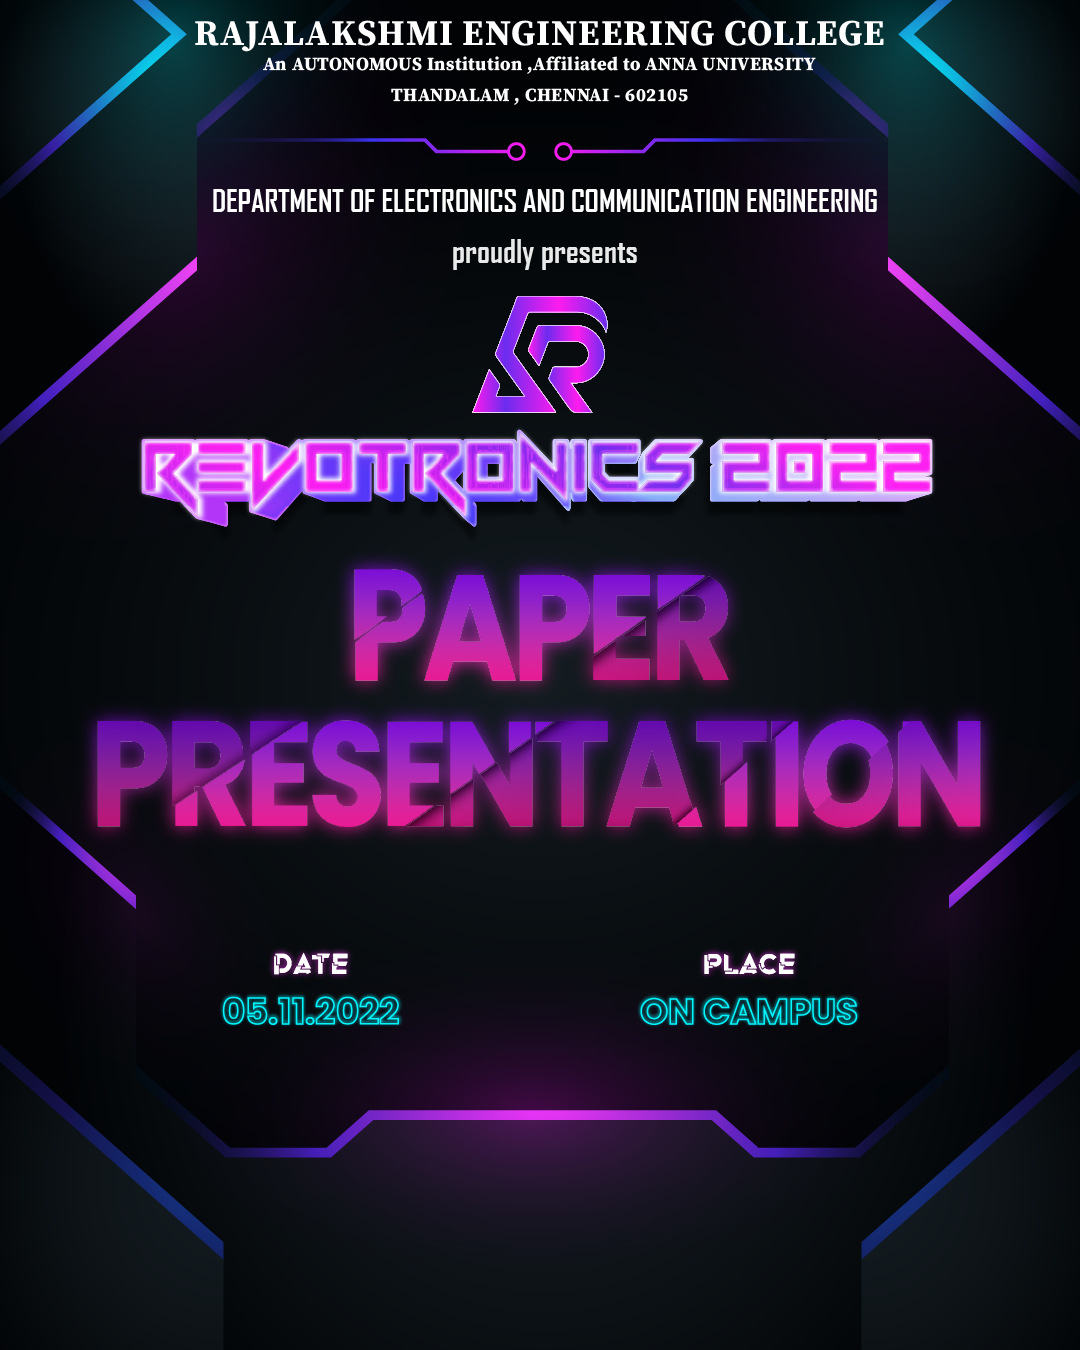
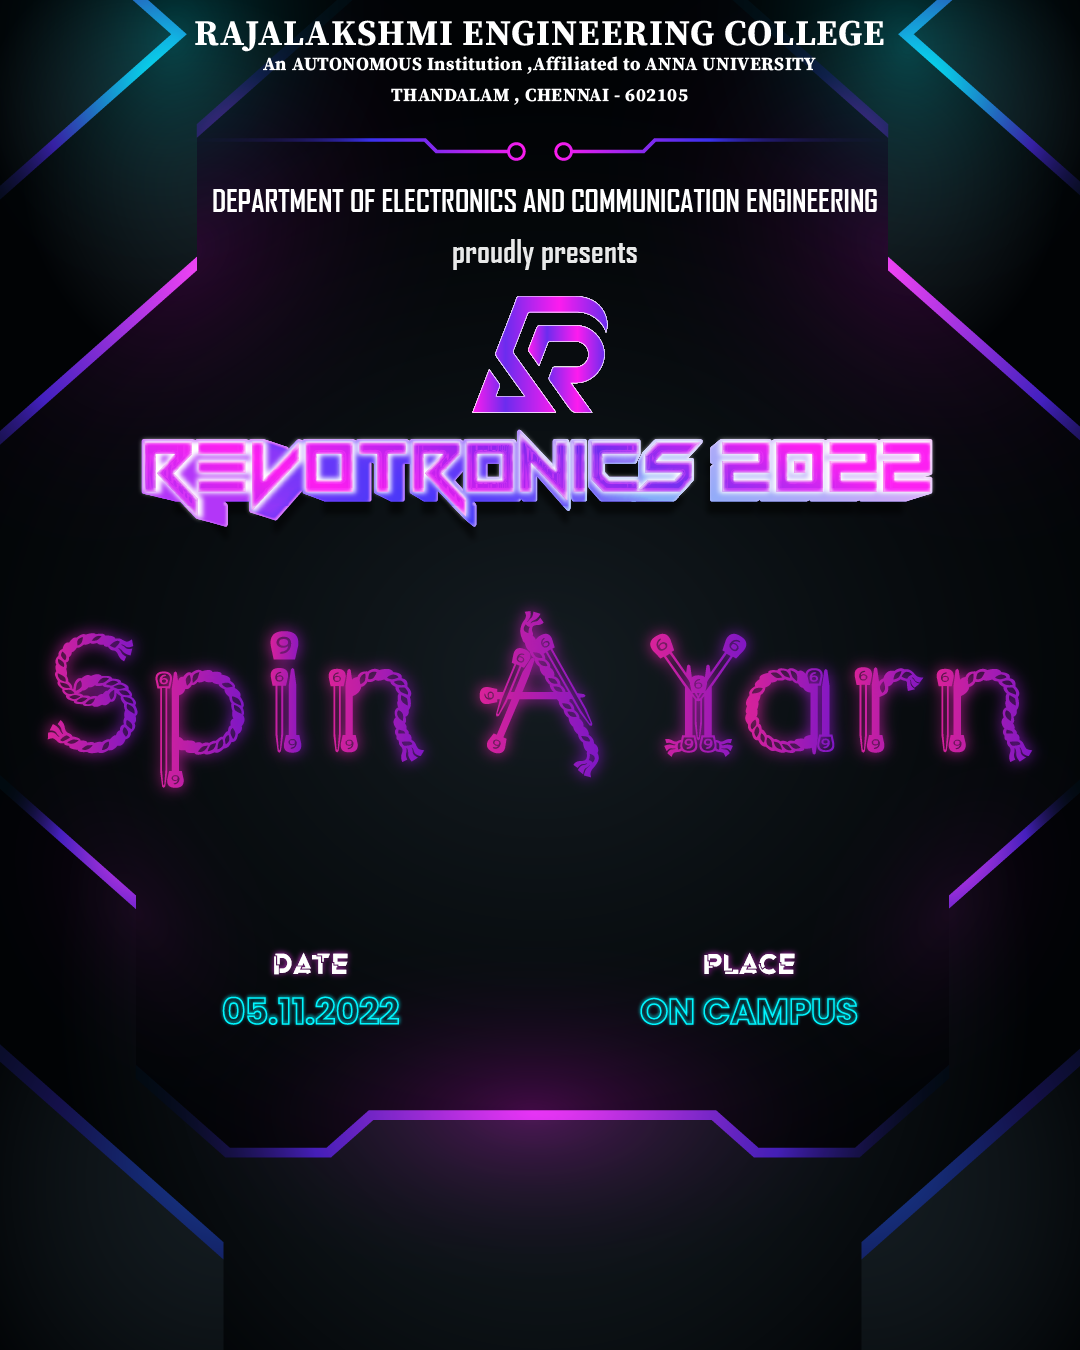
page 6 completed

Changed region(s): [[0.0306, 0.4044, 0.9778, 0.6222], [0.3361, 0.3422, 0.3972, 0.3733], [0.5194, 0.3422, 0.55, 0.3733]]

diff --git a/page6.html b/page6.html
@@ -3,7 +3,7 @@
     <meta charset="UTF-8">
     <meta http-equiv="X-UA-Compatible" content="IE=edge">
     <meta name="viewport" content="width=device-width, initial-scale=1.0">
-    <title>Paper Presentation</title>
+    <title>Spin A Yarn</title>
     <link rel="icon" type="image/x-icon" href="./img/rogo.png">
     <link href="https://fonts.googleapis.com/css?family=Varela+Round" rel="stylesheet" />
     <link href="https://fonts.googleapis.com/css?family=Nunito:200,200i,300,300i,400,400i,600,600i,700,700i,800,800i,900,900i" rel="stylesheet" />
@@ -25,17 +25,17 @@
     <div id="herodiv" class="vhcontainer myFlex centerFlex">
         <div id="herotext">
             <img src="./img/rogo.png" id="herologo" />
-            <h1 id="herotitle" class="extraBold gradient0" style="-webkit-text-stroke:0px transparent;">Paper Presentation</h1>
+            <h1 id="herotitle" class="extraBold gradient0" style="-webkit-text-stroke:0px transparent;">Spin A Yarn</h1>
         </div>
     </div>
 
     <!-- About div -->
     <div id="aboutdiv" class="vhcontainer myFlex centerFlex" style="height:70vh;">
         <div class="column2flex_page">
-            <img onclick="openInNewTab('./img/page0/eventImage.png')" src="./img/page0/eventImage.png" class="columnImage" style="position:relative;z-index:10015;" />
+            <img onclick="openInNewTab('./img/page6/eventImage.png')" src="./img/page6/eventImage.png" class="columnImage" style="position:relative;z-index:10015;" />
             <div class="myFlex centerFlex columnText">
                 <p>
-                    Reliable Engineers takes many forms, one of which is a presentor. Present and get recognized for your work. The success of your presentation will be measured not by what you say, but rather by what the listener understands.
+                    Weave your creative story from the introductory sentence. Begin with what is concluded and form the story logically and meaningfully.
                 </p>
             </div>
         </div>

diff --git a/index.html b/index.html
@@ -164,7 +164,7 @@
             <img src="./img/bgwithfangs.png" class="columnImage" onclick="window.open('./img/poster.png', '_blank').focus();" />
             <div class="myFlex centerFlex columnText">
                 <p>
-                    Weave your creative story from the introductory sentence. Begin with what is concluded and form the story logically and meaningfully.<br><button onclick="window.open('./page0.html', '_blank').focus();" class="btn extraBold knowmore" style="margin:1rem;">Know more <i class="bi bi-arrow-up-right-square-fill"></i></button>
+                    Weave your creative story from the introductory sentence. Begin with what is concluded and form the story logically and meaningfully.<br><button onclick="window.open('./page6.html', '_blank').focus();" class="btn extraBold knowmore" style="margin:1rem;">Know more <i class="bi bi-arrow-up-right-square-fill"></i></button>
                 </p>
             </div>
         </div>
